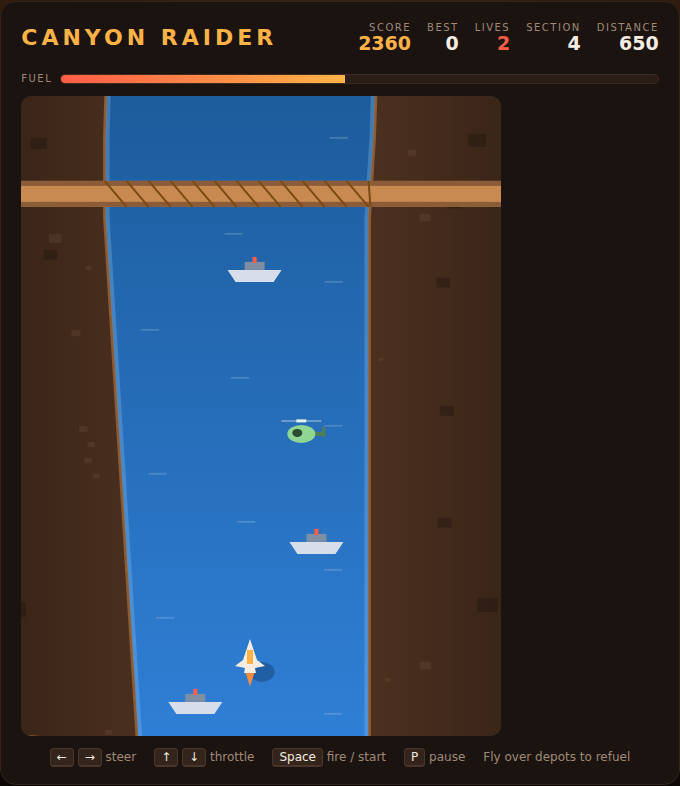
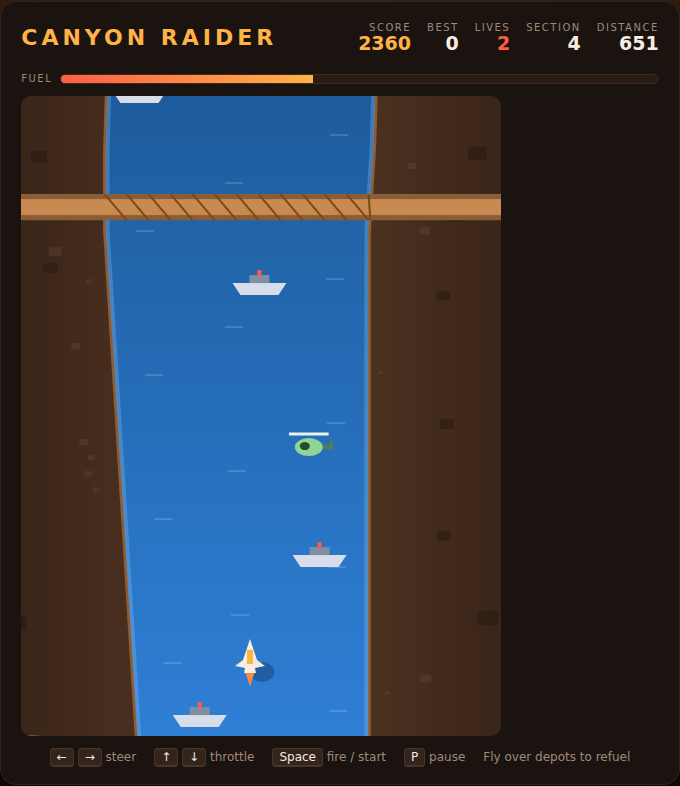
Polish Canyon Raider: low-fuel warning, chopper art, idle plane
Adds a flashing gauge and an on-canvas LOW FUEL warning below a quarter tank
(covered by two new specs), draws the plane on the idle screen, gives the
helicopters a tail and rotor disc so they read at a glance, and bills refuel
against the real sub-step instead of the maximum one.

Claude-Session: https://claude.ai/code/session_01NTSjaK8vvkBkGgSH8n1MFi

diff --git a/CanyonRaider/game.js b/CanyonRaider/game.js
@@ -55,6 +55,7 @@ const MAX_BULLETS = 6;
 const MAX_FUEL = 100;
 const FUEL_BURN = 5.2;              // units/s at base speed (scales with throttle)
 const FUEL_REFILL = 42;             // units/s while skimming a depot
+const LOW_FUEL = 25;                // gauge turns red and the canvas warns
 
 // --- Scoring ---
 const SHIP_SCORE = 30;
@@ -427,7 +428,7 @@ function tick(dt) {
 
     updateEntities(dt);
     updateBullets(dt);
-    collidePlane();
+    collidePlane(dt);
     if (state !== 'running') return;
 
     if (fuel <= 0) {
@@ -500,7 +501,7 @@ function destroy(entity) {
     updateHud();
 }
 
-function collidePlane() {
+function collidePlane(dt) {
     const worldY = planeWorldY();
     const left = plane.x - PLANE_W / 2;
     const right = plane.x + PLANE_W / 2;
@@ -520,7 +521,7 @@ function collidePlane() {
         if (Math.abs(plane.x - e.x) > (e.w + PLANE_W) / 2) continue;
         if (Math.abs(worldY - e.worldY) > (e.h + PLANE_H) / 2) continue;
         if (e.type === 'fuel') {
-            fuel = Math.min(MAX_FUEL, fuel + FUEL_REFILL * MAX_SUBSTEP);
+            fuel = Math.min(MAX_FUEL, fuel + FUEL_REFILL * dt);
         } else {
             crash();
             return;
@@ -573,6 +574,7 @@ function updateHud() {
     sectionEl.textContent = String(section);
     distanceEl.textContent = String(Math.floor(scroll / 10));
     fuelBar.style.width = `${clamp((fuel / MAX_FUEL) * 100, 0, 100)}%`;
+    fuelBar.classList.toggle('low', fuel <= LOW_FUEL);
 }
 
 function showOverlay(title, sub, button, scoreLine) {
@@ -596,8 +598,23 @@ function draw() {
     drawCanyon();
     drawEntities();
     drawBullets();
-    if (state !== 'crashed' && state !== 'idle') drawPlane();
+    if (state !== 'crashed') drawPlane();
     drawParticles();
+    drawWarning();
+}
+
+// A pulsing warning once the tank is nearly dry — the gauge is up in the HUD,
+// but your eyes are on the river.
+function drawWarning() {
+    if (state !== 'running' || fuel > LOW_FUEL) return;
+    const pulse = 0.45 + 0.55 * Math.abs(Math.sin(elapsed * 5));
+    ctx.globalAlpha = pulse;
+    ctx.fillStyle = '#ff5d47';
+    ctx.font = 'bold 22px "Segoe UI", sans-serif';
+    ctx.textAlign = 'center';
+    ctx.textBaseline = 'middle';
+    ctx.fillText('LOW FUEL', CANVAS_W / 2, 42);
+    ctx.globalAlpha = 1;
 }
 
 function drawCanyon() {

diff --git a/CanyonRaider/tests/canyonraider.spec.js b/CanyonRaider/tests/canyonraider.spec.js
@@ -308,6 +308,18 @@ test.describe('Canyon Raider', () => {
             expect(parseFloat(full)).toBeGreaterThan(parseFloat(low));
         });
 
+        test('the gauge warns when the tank runs low, and clears after refuelling', async ({ page }) => {
+            const bar = page.locator('#fuel-bar');
+            await expect(bar).not.toHaveClass(/low/);
+            await page.evaluate(() => { fuel = LOW_FUEL - 1; updateHud(); });
+            await expect(bar).toHaveClass(/low/);
+            await page.evaluate(() => {
+                spawnEntityAt('fuel', plane.x, planeWorldY());
+                for (let i = 0; i < 60; i++) step(0.016);
+            });
+            await expect(bar).not.toHaveClass(/low/);
+        });
+
         test('running dry costs a life', async ({ page }) => {
             const after = await page.evaluate(() => {
                 fuel = 0.01;

diff --git a/CanyonRaider/style.css b/CanyonRaider/style.css
@@ -94,6 +94,16 @@ body {
     transition: width 0.1s linear;
 }
 
+.fuel-bar.low {
+    background: var(--danger);
+    animation: fuel-flash 0.6s steps(2, end) infinite;
+}
+
+@keyframes fuel-flash {
+    from { opacity: 1; }
+    to { opacity: 0.35; }
+}
+
 .board-wrap {
     position: relative;
     width: 480px;
